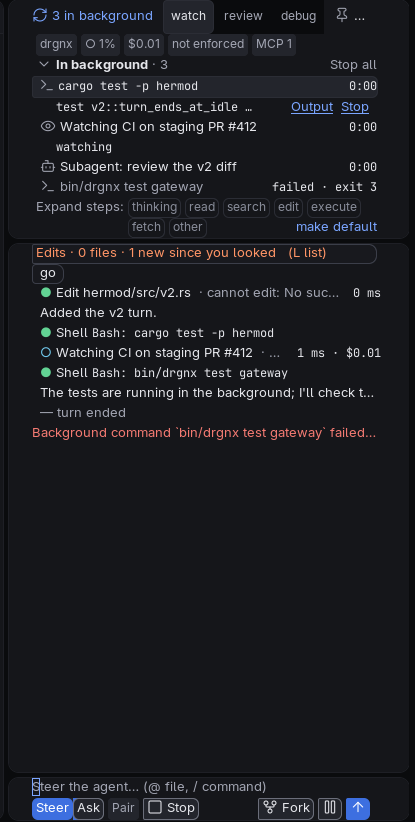
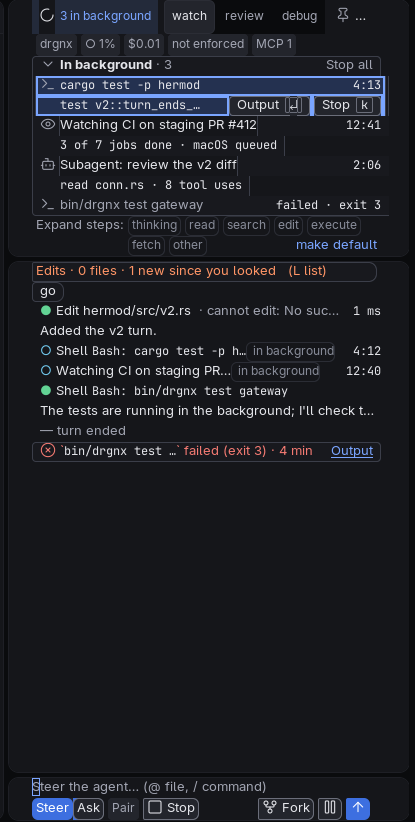
design: the background list page and shots as built (card, pill, buttons)

diff --git a/docs/design/components/background-list.md b/docs/design/components/background-list.md
@@ -11,20 +11,24 @@ only keeps the elapsed cells ticking and runs the commands.
 
 ## Anatomy
 
-- **Chip** in the header row, right of the status: `⟳ 3 in background` in the accent colour, hidden while nothing runs;
-  `2 · state unknown` in the warning colour while the agent reports `unknown` (nothing is shown as done that the agent
-  did not say). A click folds or unfolds the list.
-- **Head** of the list: chevron, "In background · N" and, while anything can be stopped, "Stop all" at the right.
+- **Chip** in the header row, right of the status: the kit's soft accent pill with the spinner (`loader-circle`) and
+  "3 in background", hidden while nothing runs; the kit's warning pill with `circle-alert` and "2 · state unknown" while the
+  agent reports `unknown` (nothing is shown as done that the agent did not say). A click folds or unfolds the list.
+- **The list is one kit card** (plain: its 1 px ring, radius 8, open between the rows). Its **head**: chevron, "In
+  background · N" and, while anything can be stopped, "Stop all" at the right.
 - **Row** per item: its kind's Lucide icon (`terminal`, `eye`, `bot`), the description (the code font for a command),
   the elapsed time `m:ss` at the right; under it the last output line, muted, in the code font. The selected row (`b`
-  moves the selection, a click selects) shows **Output** (**Open** for a subagent) and **Stop** at the right of that
-  line; Stop only where the item's agent lets a client stop it, never disabled.
+  moves the selection, a click selects) is in the selection's tint with the focus ring, inset 4 px from the card's edge,
+  and shows the kit's buttons with their keys, **Output ↵** (**Open** for a subagent) and **Stop k**, at the right of
+  its last line; Stop only where the item's agent lets a client stop it, never disabled.
 - At most six rows; the rest are "and N more", which picks one.
 - An item that ended stays faded for a few seconds with how it ended ("failed · exit 101"), until its line is in the
   transcript, then leaves.
-- In the transcript: a tool call that started an item draws live (the run dot, "in background", elapsed time); an end is
-  one line ("Background command `CMD` failed (exit 3) · 4 min", with Output); a turn the agent started by itself after
-  an end carries an "after: DESCRIPTION" tag.
+- In the transcript: a tool call that started an item (a watcher by its id, a shell by the terminal its content shows)
+  draws live: the run dot, the command, "in background" and the elapsed time at the right edge; an end is one event card
+  (a status icon, "Background command `CMD` failed (exit 3) · 4 min", Output at the right edge); at a narrow width the
+  command is cut in the middle and the tag, the time and the link stay. A turn the agent started by itself after an end
+  carries an "after: DESCRIPTION" tag.
 - On a terminal the same rows in characters: `R $ COMMAND  4:12`, status letters R running, F failed, D done, S
   stopped, ? unknown, kind marks `$` shell, `◉` watcher, `@` subagent.
 
